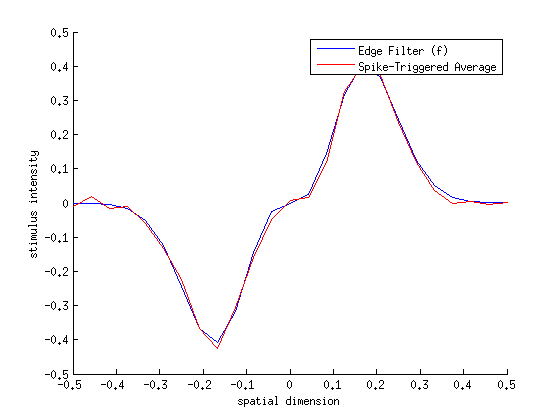
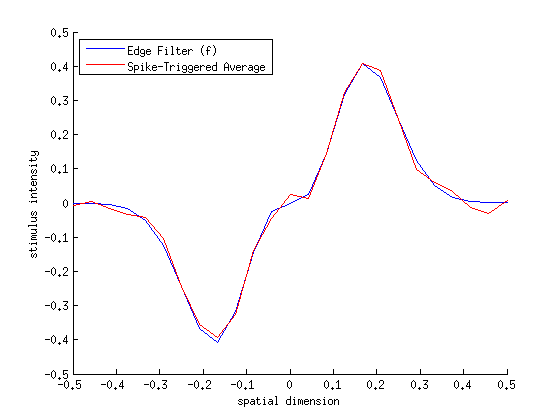
updated problem 3a

diff --git a/notes/ps2_3a/problem3a_alex.html b/notes/ps2_3a/problem3a_alex.html
@@ -91,8 +91,8 @@ plot(x,f ./ norm(f),<span class="string">'-b'</span>)
 plot(x,sta ./ norm(sta),<span class="string">'-r'</span>)
 xlabel(<span class="string">'spatial dimension'</span>)
 ylabel(<span class="string">'stimulus intensity'</span>)
-legend(<span class="string">'Edge Filter (f)'</span>,<span class="string">'Spike-Triggered Average'</span>)
-</pre><img vspace="5" hspace="5" src="problem3a_alex_02.png" alt=""> <h2>Estimate the firing rate using Bayes theorem and the STA<a name="6"></a></h2><p>spk_prior is p(spk); stim_prior is p(s*f); likli is p(s*f | spk)</p><pre class="codeinput"><span class="comment">% spk_prior is the same as the overall mean firing rate.</span>
+legend(<span class="string">'Edge Filter (f)'</span>,<span class="string">'Spike-Triggered Average'</span>,<span class="string">'location'</span>,<span class="string">'NorthWest'</span>)
+</pre><img vspace="5" hspace="5" src="problem3a_alex_02.png" alt=""> <h2>Estimate the firing rate using Bayes theorem and the STA<a name="6"></a></h2><p>Variable definitions: "spk_prior" is <img src="problem3a_alex_eq86948.png" alt="$p(spike)$">, "stim_prior" is <img src="problem3a_alex_eq13073.png" alt="$p(\vec{s}(t)\cdot\vec{f})$">, "likli" is <img src="problem3a_alex_eq60799.png" alt="$p(\vec{s}(t)\cdot\vec{f} | spike)$"></p><pre class="codeinput"><span class="comment">% spk_prior is the same as the overall mean firing rate.</span>
 spk_prior  = mean(r);
 
 <span class="comment">% stim_prior is a histogram of the projections of s(:,t) onto the sta.</span>
@@ -111,7 +111,7 @@ likli = @(x) sum(proj_spk&lt;=(x+proj_bin_size) &amp; proj_spk&gt;=(x-proj_bin_s
 r_est = @(x) likli(x).*spk_prior./stim_prior(x);
 
 <span class="keyword">for</span> aa = 1:100
-  r_est_100(aa) = r_est(sta*s(:,aa));
+  r_est_100(aa) = r_est(sta*s(:,aa)); <span class="comment">%#ok&lt;SAGROW&gt;</span>
 <span class="keyword">end</span>
 
 <span class="comment">% Compare predicted to actual firing rate</span>
@@ -128,13 +128,13 @@ title(<span class="string">'stimulus (first 100 time points)'</span>)
 </pre><img vspace="5" hspace="5" src="problem3a_alex_03.png" alt=""> <h2>Compare predicted and actual non-linearity<a name="7"></a></h2><pre class="codeinput">figure; hold <span class="string">on</span>
 proj_levels = linspace(min(min(f*s)),max(max(f*s)),100);
 <span class="keyword">for</span> aa = 1:length(proj_levels)
-  r_est_100(aa) = r_est(proj_levels(aa));
+  r_est_100(aa) = r_est(proj_levels(aa)); <span class="comment">%#ok&lt;SAGROW&gt;</span>
 <span class="keyword">end</span>
 plot(f*s,(r-min(r))./range(r),<span class="string">'.b'</span>)
 plot(proj_levels,(r_est_100-min(r_est_100))./range(r_est_100),<span class="string">'-r'</span>)
 xlabel(<span class="string">'Projection onto stimulus filter'</span>)
 ylabel(<span class="string">'firing rate'</span>)
-legend(<span class="string">'actual'</span>,<span class="string">'estimated'</span>)
+legend(<span class="string">'actual'</span>,<span class="string">'estimated'</span>,<span class="string">'location'</span>,<span class="string">'NorthWest'</span>)
 </pre><img vspace="5" hspace="5" src="problem3a_alex_04.png" alt=""> <p class="footer"><br><a href="http://www.mathworks.com/products/matlab/">Published with MATLAB&reg; R2013a</a><br></p></div><!--
 ##### SOURCE BEGIN #####
 clear; close all; clc;
@@ -173,10 +173,13 @@ plot(x,f ./ norm(f),'-b')
 plot(x,sta ./ norm(sta),'-r')
 xlabel('spatial dimension')
 ylabel('stimulus intensity')
-legend('Edge Filter (f)','Spike-Triggered Average')
+legend('Edge Filter (f)','Spike-Triggered Average','location','NorthWest')
 
 %% Estimate the firing rate using Bayes theorem and the STA
-% spk_prior is p(spk); stim_prior is p(s*f); likli is p(s*f | spk)
+% Variable definitions: 
+% "spk_prior" is $p(spike)$,  
+% "stim_prior" is $p(\vec{s}(t)\cdot\vec{f})$,
+% "likli" is $p(\vec{s}(t)\cdot\vec{f} | spike)$
 
 % spk_prior is the same as the overall mean firing rate.
 spk_prior  = mean(r);
@@ -197,7 +200,7 @@ likli = @(x) sum(proj_spk<=(x+proj_bin_size) & proj_spk>=(x-proj_bin_size))./siz
 r_est = @(x) likli(x).*spk_prior./stim_prior(x);
 
 for aa = 1:100
-  r_est_100(aa) = r_est(sta*s(:,aa));
+  r_est_100(aa) = r_est(sta*s(:,aa)); %#ok<SAGROW>
 end
 
 % Compare predicted to actual firing rate
@@ -216,13 +219,13 @@ title('stimulus (first 100 time points)')
 figure; hold on
 proj_levels = linspace(min(min(f*s)),max(max(f*s)),100);
 for aa = 1:length(proj_levels)
-  r_est_100(aa) = r_est(proj_levels(aa));
+  r_est_100(aa) = r_est(proj_levels(aa)); %#ok<SAGROW>
 end
 plot(f*s,(r-min(r))./range(r),'.b')
 plot(proj_levels,(r_est_100-min(r_est_100))./range(r_est_100),'-r')
 xlabel('Projection onto stimulus filter')
 ylabel('firing rate')
-legend('actual','estimated')
+legend('actual','estimated','location','NorthWest')
 
 ##### SOURCE END #####
 --></body></html>
